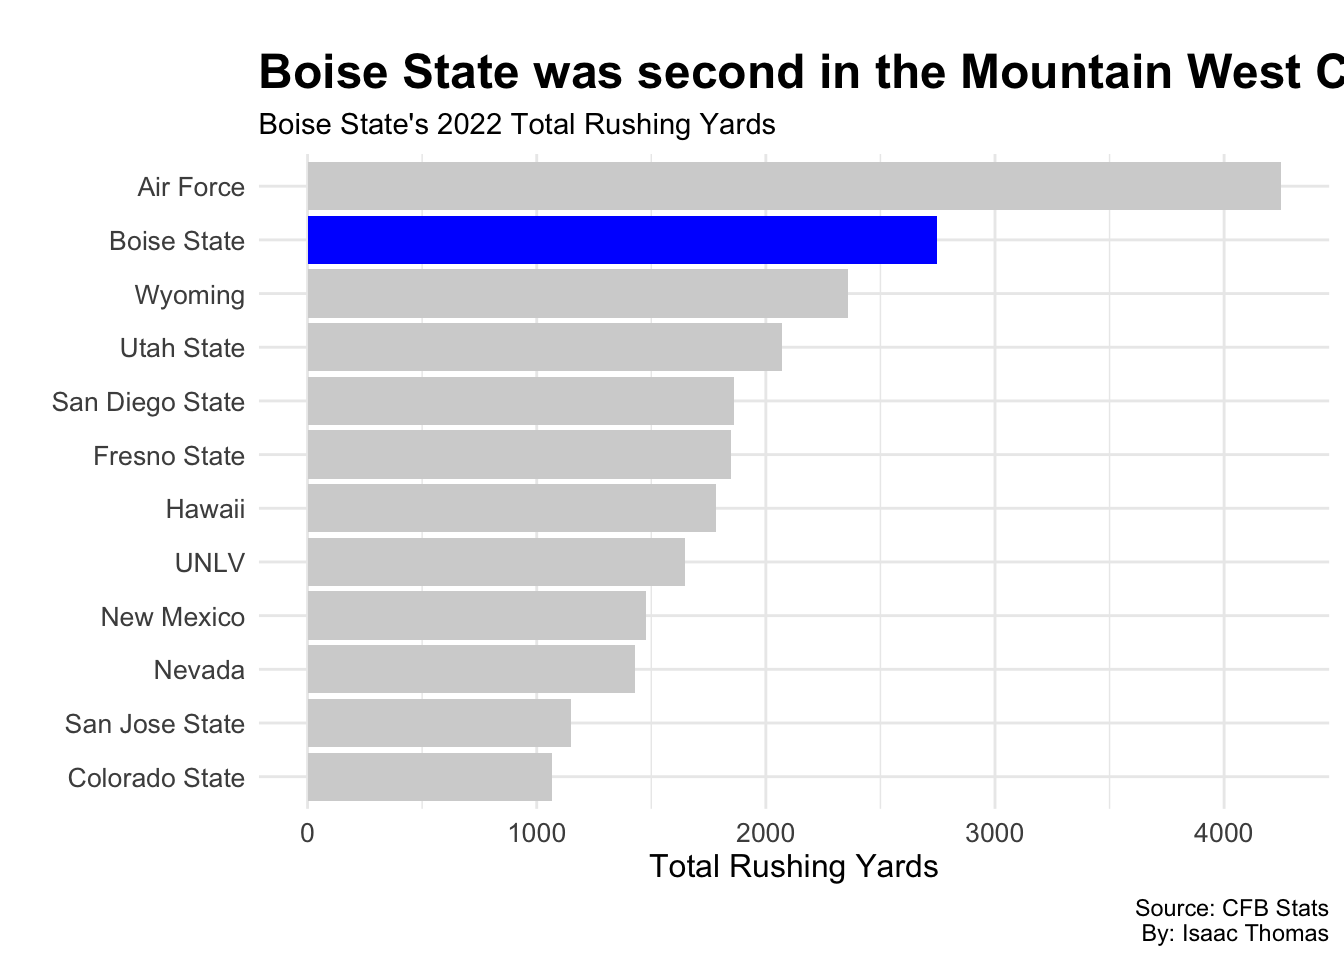
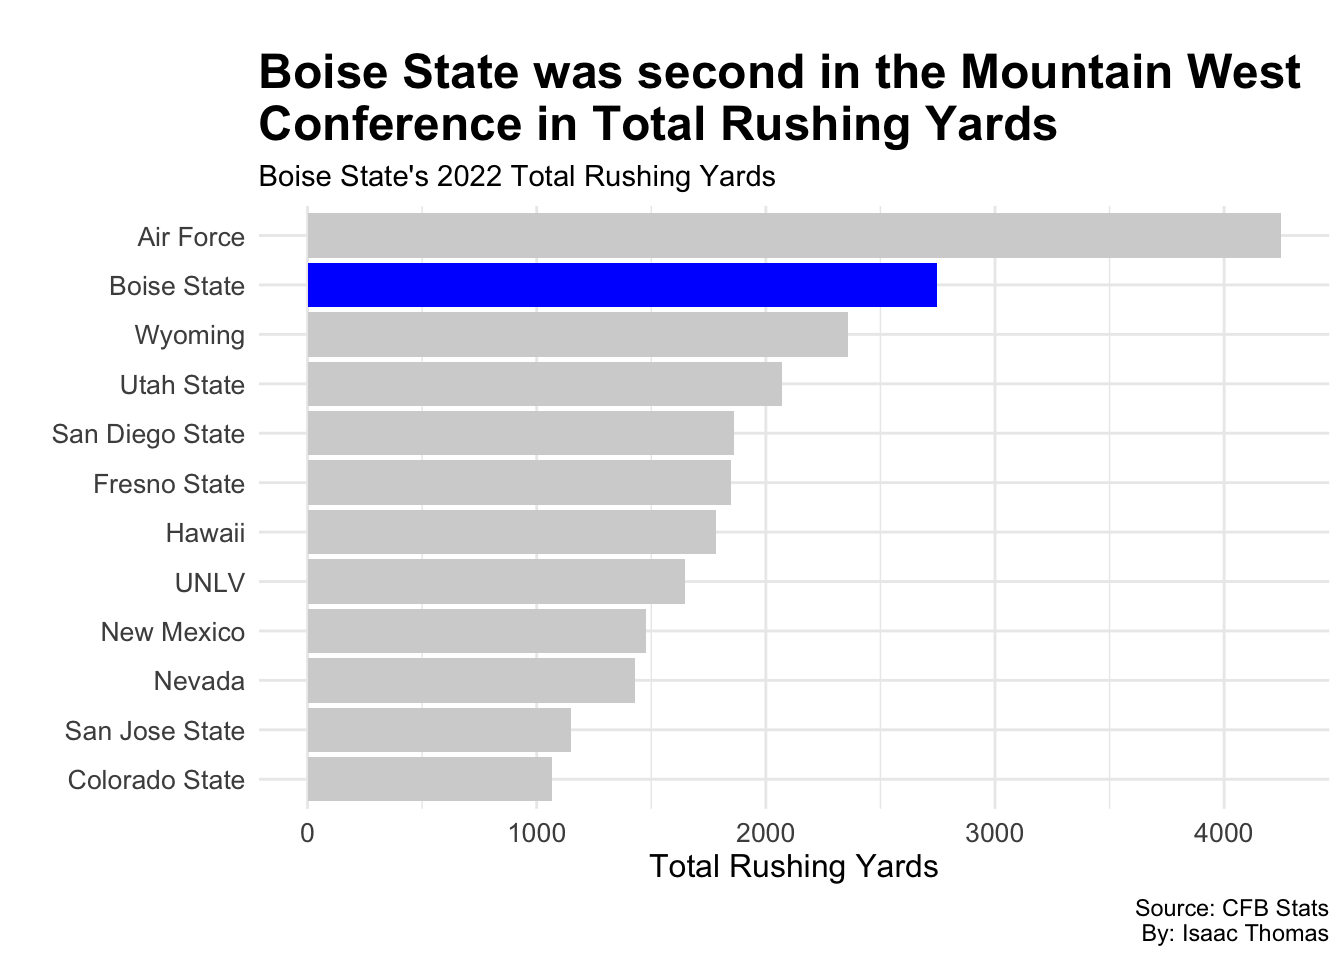
Final Render

Changed region(s): [[0.0312, 0.0938, 0.9688, 0.7188], [0.0312, 0.7188, 0.9688, 0.8438], [0.9688, 0.0312, 1.0, 0.0938]]

diff --git a/posts/boise-state-rushing-offense-last-ten-years/index.html b/posts/boise-state-rushing-offense-last-ten-years/index.html
@@ -398,7 +398,7 @@ pre > code.sourceCode > span > a:first-child::before { text-decoration: underlin
 <span id="cb4-28"><a href="#cb4-28" aria-hidden="true" tabindex="-1"></a>           <span class="fu">aes</span>(<span class="at">x =</span> <span class="fu">reorder</span>(Name, Yards), <span class="at">weight =</span> Yards), <span class="at">fill =</span> <span class="st">"blue"</span>) <span class="sc">+</span></span>
 <span id="cb4-29"><a href="#cb4-29" aria-hidden="true" tabindex="-1"></a>  <span class="fu">coord_flip</span>() <span class="sc">+</span></span>
 <span id="cb4-30"><a href="#cb4-30" aria-hidden="true" tabindex="-1"></a>  <span class="fu">labs</span>(</span>
-<span id="cb4-31"><a href="#cb4-31" aria-hidden="true" tabindex="-1"></a>    <span class="at">title =</span> <span class="st">"Boise State was second in the Mountain West Conference in Total Rushing Yards"</span>,</span>
+<span id="cb4-31"><a href="#cb4-31" aria-hidden="true" tabindex="-1"></a>    <span class="at">title =</span> <span class="st">"Boise State was second in the Mountain West</span><span class="sc">\n</span><span class="st">Conference in Total Rushing Yards"</span>,</span>
 <span id="cb4-32"><a href="#cb4-32" aria-hidden="true" tabindex="-1"></a>    <span class="at">subtitle =</span> <span class="st">"Boise State's 2022 Total Rushing Yards"</span>,</span>
 <span id="cb4-33"><a href="#cb4-33" aria-hidden="true" tabindex="-1"></a>    <span class="at">x =</span> <span class="st">""</span>,</span>
 <span id="cb4-34"><a href="#cb4-34" aria-hidden="true" tabindex="-1"></a>    <span class="at">y =</span> <span class="st">"Total Rushing Yards"</span>,</span>

diff --git a/index.html b/index.html
@@ -206,7 +206,7 @@ window.Quarto = {
 
 <div class="quarto-listing quarto-listing-container-default" id="listing-listing">
 <div class="list quarto-listing-default">
-<div class="quarto-post image-right" data-index="0" data-categories="Zm9vdGJhbGwlMkNmYnMlMkNjb2xsZWdl" data-listing-date-sort="1763359200000" data-listing-file-modified-sort="1763277183572" data-listing-date-modified-sort="NaN" data-listing-reading-time-sort="15" data-listing-word-count-sort="2810">
+<div class="quarto-post image-right" data-index="0" data-categories="Zm9vdGJhbGwlMkNmYnMlMkNjb2xsZWdl" data-listing-date-sort="1763359200000" data-listing-file-modified-sort="1763277967698" data-listing-date-modified-sort="NaN" data-listing-reading-time-sort="15" data-listing-word-count-sort="2809">
 <div class="thumbnail"><a href="./posts/boise-state-rushing-offense-last-ten-years/index.html" class="no-external">
 
 <img loading="lazy" src="./posts/boise-state-rushing-offense-last-ten-years/image.png" class="thumbnail-image">
